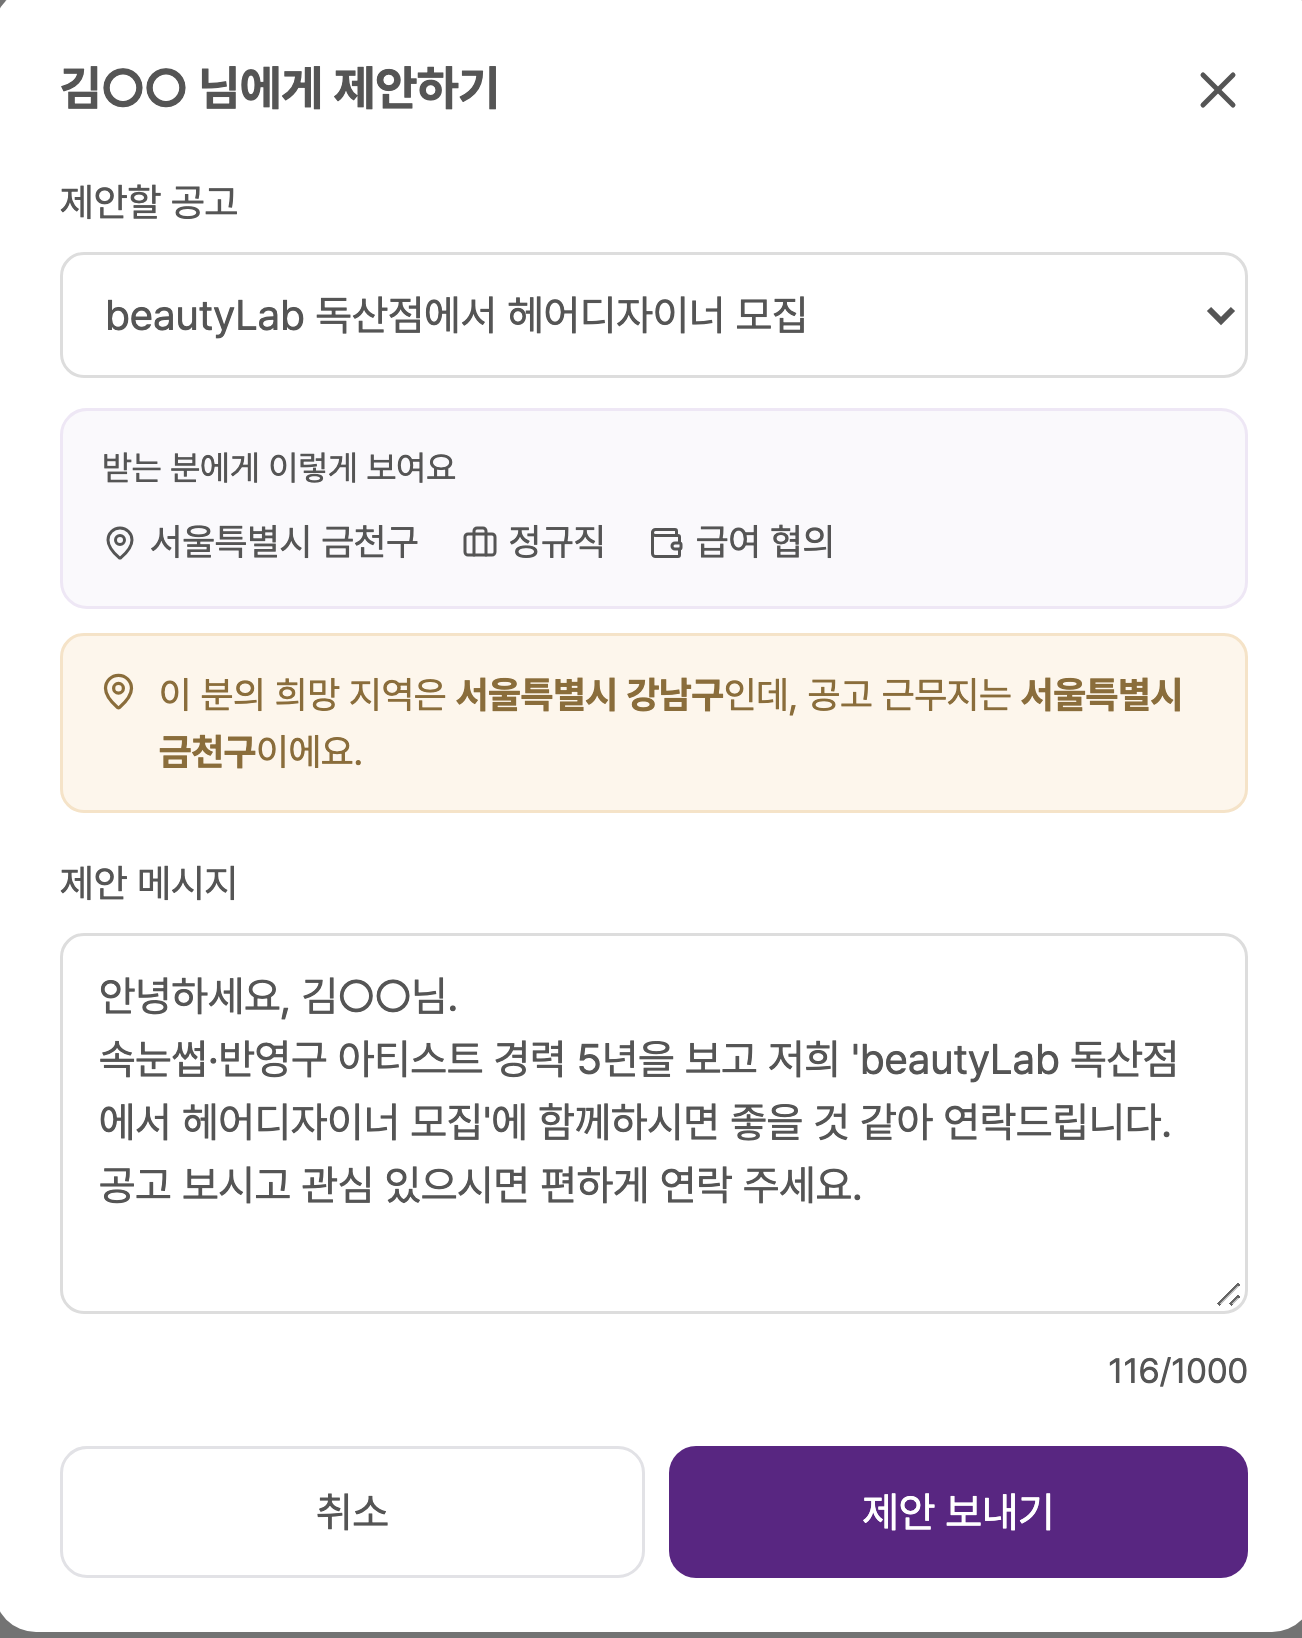
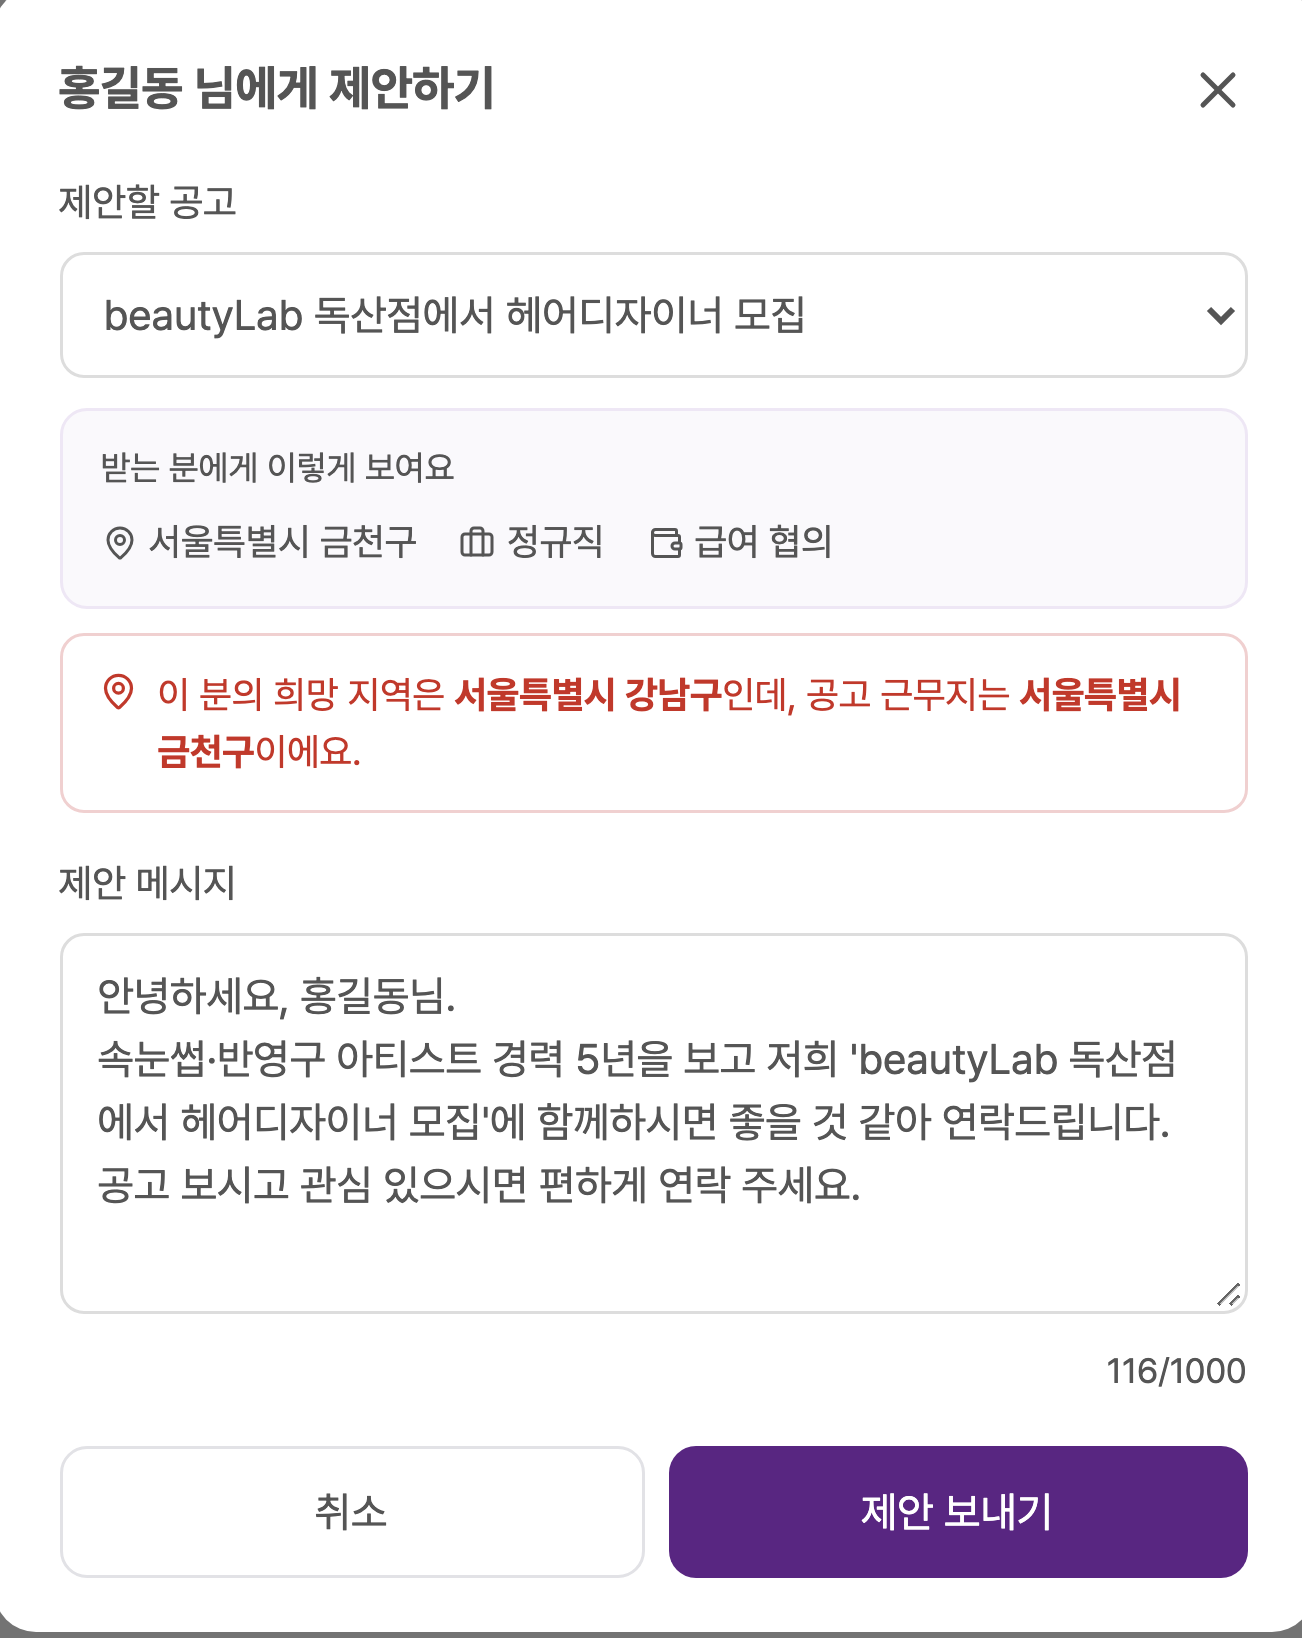
인재 검색 흐름을 1행 2열로 합치고, 상품안내 FAQ 중복을 없앤다
- 인재 검색·제안·채팅 네 컷을 두 틀로 묶는다: 제안하기+제안모달, 수락거절+채팅.
  칸마다 테두리를 두를 때 생기던 빈 공간이 없어진다. 예시 이름도 홍길동으로.
- 지역 어긋남 경고 박스를 흰 바탕·빨간 글씨로.
- 상품 제목(.pi-nm) 색을 #555로 통일.
- 채용공고 상품 안내(공개·기업회원 대시보드) 자주묻는 질문을 고객센터
  기업회원 FAQ 링크로 대체 — 같은 질문 두 곳에 두던 것을 없앤다.

diff --git a/app/company/dashboard/plans/page.tsx b/app/company/dashboard/plans/page.tsx
@@ -1,12 +1,10 @@
 "use client";
 
-import { useState } from "react";
 import Link from "next/link";
-import { Plus, Minus, ArrowRight } from "lucide-react";
+import { ArrowRight } from "lucide-react";
 import CompanyLayout from "@/components/company/CompanyLayout";
 import PlanCards from "@/components/company/PlanCards";
 import EventBand from "@/components/company/EventBand";
-import { 상품FAQ } from "@/lib/faq";
 
 /**
  * 채용상품 — 로그인한 기업이 머리줄에서 들어오는 첫 화면.
@@ -16,8 +14,6 @@ import { 상품FAQ } from "@/lib/faq";
  * 간다 — 둘 중 어느 길로 눌러도 같은 화면이어야 한다.
  */
 export default function CompanyDashboardPlansPage() {
-  const [열린질문, set열린질문] = useState<number | null>(null);
-
   return (
     <CompanyLayout activePage="plans">
       <div className="co-plans">
@@ -25,22 +21,13 @@ export default function CompanyDashboardPlansPage() {
         <PlanCards 안쪽 />
 
         <h2 className="cs-h2" style={{ marginTop: 56 }}>자주 묻는 질문</h2>
-        <ul className="cs-faq">
-          {상품FAQ.map((f, i) => (
-            <li key={f.q} className={열린질문 === i ? "on" : undefined}>
-              <button type="button" onClick={() => set열린질문(열린질문 === i ? null : i)} aria-expanded={열린질문 === i}>
-                <i>Q.</i>
-                <span>{f.q}</span>
-                {열린질문 === i ? <Minus size={16} /> : <Plus size={16} />}
-              </button>
-              {열린질문 === i && (
-                Array.isArray(f.a)
-                  ? <ul className="cs-faq-a-list">{f.a.map((line, j) => <li key={j}>{line}</li>)}</ul>
-                  : <p>{f.a}</p>
-              )}
-            </li>
-          ))}
-        </ul>
+        <p style={{ fontSize: 14.5, color: "#555", lineHeight: 1.7 }}>
+          요금제 자주 묻는 질문은{" "}
+          <Link href="/support/faq?누구=기업" style={{ color: "#582681", fontWeight: 600 }}>
+            기업회원 FAQ
+          </Link>
+          에서 확인하실 수 있습니다.
+        </p>
         <div className="cs-center" style={{ marginTop: 30 }}>
           <Link href="/support" className="cs-btn-line lg">
             고객센터 문의하기 <ArrowRight size={15} />

diff --git a/app/globals.css b/app/globals.css
@@ -16466,7 +16466,7 @@ select option { background-color: #fff; color: var(--color-text-strong); }
    =========================================== */
 .pi { max-width: 780px; margin: 0 auto; color: #555; font-size: 15px; }
 .pi-hd { border-bottom: 2px solid #1f1f22; padding: 22px 0 16px; }
-.pi-nm { font-size: 27px; font-weight: 700; color: #1f1f22; margin: 0 0 7px; letter-spacing: -.5px; }
+.pi-nm { font-size: 27px; font-weight: 700; color: #555; margin: 0 0 7px; letter-spacing: -.5px; }
 .pi-ln { font-size: 15.5px; color: #555; margin: 0; line-height: 1.55; word-break: keep-all; }
 .pi-lbl { font-size: 13.5px; color: #8a8a90; margin: 0 0 4px; }
 .pi-amt { font-size: 27px; font-weight: 700; color: #1f1f22; letter-spacing: -.8px; margin: 0; line-height: 1.1; }
@@ -16512,14 +16512,14 @@ select option { background-color: #fff; color: var(--color-text-strong); }
 .pi-cap { font-size: 13px; color: #8a8a90; margin: 6px 0 18px; line-height: 1.5; }
 .pi-cap b { color: var(--color-primary); font-weight: 600; }
 
-/* 인재 검색 · 제안 · 채팅 — 실제 화면 네 컷. 절차를 말로 풀지 않고
-   차례대로 찍어 보여 준다. 2행 2열 — 한 줄에 넷을 다 넣으면 칸이 좁아져
-   글자가 안 읽힌다. */
+/* 인재 검색 · 제안 · 채팅 — 실제 화면을 1행 2열로 보여 준다. 절차 두
+   단계씩(제안 걸기 / 수락과 채팅) 한 틀에 이어 붙여, 칸마다 따로 테두리를
+   두를 때 생기던 빈 공간을 없앤다. */
 .pi-flow { display: grid; grid-template-columns: repeat(2, 1fr); gap: 16px; margin-top: 12px; }
 .pi-flow-item { display: flex; flex-direction: column; }
-.pi-flow-pic { display: flex; align-items: center; justify-content: center; min-height: 220px;
-  border: 1px solid var(--card-line); border-radius: 8px; background: #fafafa; overflow: hidden; }
-.pi-flow-pic img { display: block; width: 100%; }
+.pi-flow-frame { border: 1px solid var(--card-line); border-radius: 8px; overflow: hidden; background: #fff; }
+.pi-flow-frame img { display: block; width: 100%; }
+.pi-flow-frame img + img { border-top: 1px solid var(--card-line); }
 .pi-flow-cap { font-size: 13.5px; color: #8a8a90; line-height: 1.5; margin: 8px 0 0; }
 @media (max-width: 640px) { .pi-flow { grid-template-columns: 1fr; } }
 

diff --git a/app/company/plans/page.tsx b/app/company/plans/page.tsx
@@ -1,12 +1,10 @@
 "use client";
 
-import { useState } from "react";
 import Link from "next/link";
-import { Plus, Minus, ArrowRight } from "lucide-react";
+import { ArrowRight } from "lucide-react";
 import ServiceHeader from "@/components/company/ServiceHeader";
 import PlanCards from "@/components/company/PlanCards";
 import EventBand from "@/components/company/EventBand";
-import { 상품FAQ } from "@/lib/faq";
 
 /**
  * 요금제 — 고르는 자리.
@@ -18,8 +16,6 @@ import { 상품FAQ } from "@/lib/faq";
  */
 
 export default function CompanyPlansPage() {
-  const [열린질문, set열린질문] = useState<number | null>(null);
-
   return (
     <div className="cs-page">
       <ServiceHeader />
@@ -32,22 +28,13 @@ export default function CompanyPlansPage() {
 
       <section className="cs-wrap">
         <h2 className="cs-h2">자주 묻는 질문</h2>
-        <ul className="cs-faq">
-          {상품FAQ.map((f, i) => (
-            <li key={f.q} className={열린질문 === i ? "on" : undefined}>
-              <button type="button" onClick={() => set열린질문(열린질문 === i ? null : i)} aria-expanded={열린질문 === i}>
-                <i>Q.</i>
-                <span>{f.q}</span>
-                {열린질문 === i ? <Minus size={16} /> : <Plus size={16} />}
-              </button>
-              {열린질문 === i && (
-                Array.isArray(f.a)
-                  ? <ul className="cs-faq-a-list">{f.a.map((line, j) => <li key={j}>{line}</li>)}</ul>
-                  : <p>{f.a}</p>
-              )}
-            </li>
-          ))}
-        </ul>
+        <p style={{ fontSize: 14.5, color: "#555", lineHeight: 1.7 }}>
+          요금제 자주 묻는 질문은{" "}
+          <Link href="/support/faq?누구=기업" style={{ color: "#582681", fontWeight: 600 }}>
+            기업회원 FAQ
+          </Link>
+          에서 확인하실 수 있습니다.
+        </p>
         <div className="cs-center" style={{ marginTop: 30 }}>
           <Link href="/support" className="cs-btn-line lg">
             고객센터 문의하기 <ArrowRight size={15} />

diff --git a/app/company/dashboard/talent/page.tsx b/app/company/dashboard/talent/page.tsx
@@ -1043,7 +1043,7 @@ export default function TalentPage() {
             {/* 헛수고를 줄인다. 막지는 않는다 — 옮길 생각이 있는 사람도 있다. */}
             {지역어긋남 && (
               <div style={{ display: "flex", gap: 7, alignItems: "flex-start", marginBottom: 14, padding: "10px 12px",
-                background: "#fdf6ec", border: "1px solid #f5e3c8", borderRadius: 8, fontSize: 12.5, color: "#8a6d3b", lineHeight: 1.55 }}>
+                background: "#fff", border: "1px solid #f0d0d0", borderRadius: 8, fontSize: 12.5, color: "#c0392b", lineHeight: 1.55 }}>
                 <MapPin size={13} style={{ marginTop: 2, flexShrink: 0 }} />
                 <span>이 분의 희망 지역은 <b>{proposeTarget.regionPrefer}</b>인데, 공고 근무지는 <b>{고른공고?.location}</b>이에요.</span>
               </div>

diff --git a/lib/faq.ts b/lib/faq.ts
@@ -322,13 +322,3 @@ export const FAQ찾기 = (m: 묶음, 말: string) => {
   if (!k) return FAQ[m];
   return FAQ[m].filter((f) => (f.q + f.a).toLowerCase().includes(k));
 };
-
-/**
- * 상품안내 화면에 붙는 질문.
- *
- * 상품을 보다가 생기는 것만 고른다 — 돈과 노출. 목록을 따로 들지 않는 까닭은,
- * 따로 들면 같은 질문에 답이 갈리기 때문이다. 실제로 갈려 있었다: 고객센터는
- * 약관대로 「시작 전 전액·시작 후 잔액 환불」인데 상품안내는 「환불되지
- * 않습니다」였다.
- */
-export const 상품FAQ = FAQ.기업.filter((f) => f.갈래 === "상품·결제" || f.갈래 === "노출");

diff --git a/lib/companyPlans.ts b/lib/companyPlans.ts
@@ -273,5 +273,6 @@ export const 혜택 = (칸: 0 | 1 | 2 | 3): { 글: string; 새것: boolean }[] =
 export const 대표기간 = 30 as 기간;
 
 
-/* 요금제FAQ 는 여기 있었다. lib/faq.ts 의 상품FAQ 로 옮겼다 — 같은 질문을 두
-   곳에서 들고 있으니 답이 갈렸다(환불 문구가 실제로 갈려 있었다). */
+/* 요금제FAQ 는 여기 있었다. 상품안내 화면에 따로 들고 있으니 고객센터
+   FAQ와 답이 갈렸다(환불 문구가 실제로 갈려 있었다) — 이제 상품안내는
+   목록을 들지 않고 /support/faq?누구=기업 로만 안내한다. */
